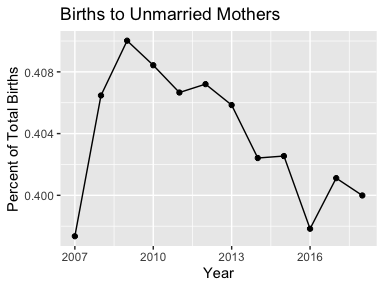
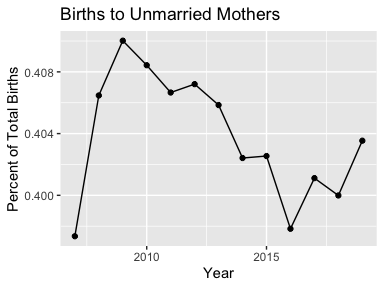
update readme

diff --git a/README.md b/README.md
@@ -1,106 +1,58 @@
 wonderapi
 ================
 Joyce Robbins
-October 3, 2019
-
-**Please note that the CDC [does not allow access to subnational data categories through the API](https://wonder.cdc.gov/wonder/help/WONDER-API.html#More). That means grouping by location variables such as Region, Division, State, County, and Urbanization will not work.**
+June 21, 2021
 
 <div id="TOC">
 
 <ul>
-
 <li>
-
 <a href="#overview">Overview</a>
-
 <ul>
-
 <li>
-
 <a href="#example">Example</a>
-
 </li>
-
 </ul>
-
 </li>
-
 <li>
-
 <a href="#installation">Installation</a>
-
 </li>
-
 <li>
-
 <a href="#getting-started">Getting started</a>
-
 <ul>
-
 <li>
-
 <a href="#codebooks">Codebooks</a>
-
 </li>
-
 <li>
-
 <a href="#default-query-lists-and-requests">Default query lists and
 requests</a>
-
 </li>
-
 </ul>
-
 </li>
-
 <li>
-
 <a href="#creating-customized-queries">Creating customized queries</a>
-
 <ul>
-
 <li>
-
 <a href="#group-by-variables">Group By variables</a>
-
 </li>
-
 <li>
-
 <a href="#measures">Measures</a>
-
 </li>
-
 <li>
-
 <a href="#limiting-variables">Limiting variables</a>
-
 </li>
-
 <li>
-
 <a href="#plotting-query-results">Plotting query results</a>
-
 </li>
-
 <li>
-
 <a href="#combining-results-from-multiple-datasets">Combining results
 from multiple datasets</a>
-
 </li>
-
 <li>
-
 <a href="#errors">Errors</a>
-
 </li>
-
 </ul>
-
 </li>
-
 </ul>
 
 </div>
@@ -119,11 +71,11 @@ write queries using human readable names rather than numeric codes.
 
 `getData()`
 
-  - converts the user’s parameter requests to codes  
-  - adds these codes to the default query list  
-  - calls `wondr::make_query` to obtain query results
-  - processes the results  
-  - returns a tidy data frame
+-   converts the user’s parameter requests to codes  
+-   adds these codes to the default query list  
+-   calls `wondr::make_query` to obtain query results
+-   processes the results  
+-   returns a tidy data frame
 
 ### Example
 
@@ -186,14 +138,15 @@ codebooks are stored as vignettes, so be sure to include
 Queries are composed of parameter name-value pairs. Setting up a query
 without assistance is complex because the query must be submitted as an
 .xml file with a long list of required parameters, such as [here
-(Example 1)](https://wonder.cdc.gov/wonder/help/API-Examples/D76_Example1-req.xml)
-and [here
-(Example 2)](https://wonder.cdc.gov/wonder/help/API-Examples/D76_Example2-req.xml).
+(Example
+1)](https://wonder.cdc.gov/wonder/help/API-Examples/D76_Example1-req.xml)
+and [here (Example
+2)](https://wonder.cdc.gov/wonder/help/API-Examples/D76_Example2-req.xml).
 The point of the package is to prevent your having to create requests in
 this form. It relies on the `wondr` package which creates converts R
 lists to xml and makes the query. The value of this package is in the
-“pre” and “post” stages of the query, that is, the processes of
-setting up the query and tidying the results.
+“pre” and “post” stages of the query, that is, the processes of setting
+up the query and tidying the results.
 
 ### Codebooks
 
@@ -232,7 +185,7 @@ To facilitate the process of designing a query list, this package relies
 on default query lists. Each default query is set to request a single
 Group By Results parameter, generally set to `"Year"`. It is set to
 request the Measures that are listed as default Measures on the web
-interface (i.e. `Births` for [the Births
+interface (i.e. `Births` for [the Births
 dataset](https://wonder.cdc.gov/controller/datarequest/D76); `Deaths`,
 `Population` and `Crude Rate` for the [Detailed Mortality
 dataset](https://wonder.cdc.gov/controller/datarequest/D76).) To see the
@@ -301,12 +254,12 @@ mydata %>% head()
     ## # A tibble: 6 x 4
     ##   Weekday    Deaths Population     `Crude Rate`  
     ##   <chr>       <dbl> <chr>          <chr>         
-    ## 1 Sunday    6771754 Not Applicable Not Applicable
-    ## 2 Monday    6818805 Not Applicable Not Applicable
-    ## 3 Tuesday   6771904 Not Applicable Not Applicable
-    ## 4 Wednesday 6776899 Not Applicable Not Applicable
-    ## 5 Thursday  6786793 Not Applicable Not Applicable
-    ## 6 Friday    6891067 Not Applicable Not Applicable
+    ## 1 Sunday    7575854 Not Applicable Not Applicable
+    ## 2 Monday    7638335 Not Applicable Not Applicable
+    ## 3 Tuesday   7586763 Not Applicable Not Applicable
+    ## 4 Wednesday 7585543 Not Applicable Not Applicable
+    ## 5 Thursday  7596742 Not Applicable Not Applicable
+    ## 6 Friday    7711294 Not Applicable Not Applicable
 
 As the set up is slightly different depending on the parameter type,
 more details on setting up the name-value pairs by parameter types are
@@ -369,7 +322,7 @@ mylist <- list(list("Month", "2"))
 getData(TRUE, "D66", mylist)
 ```
 
-    ## # A tibble: 12 x 2
+    ## # A tibble: 13 x 2
     ##     Year Births
     ##    <dbl>  <dbl>
     ##  1  2007 326891
@@ -384,6 +337,7 @@ getData(TRUE, "D66", mylist)
     ## 10  2016 306015
     ## 11  2017 289054
     ## 12  2018 284250
+    ## 13  2019 279963
 
 **Note that values for Limiting Variables must be entered as codes; in
 this case “2” rather than “February.” We hope to add capability for
@@ -437,10 +391,10 @@ births <- rbind(getData(TRUE, "Natality for 1995 - 2002"),
                 getData(TRUE, "Natality for 2003 - 2006"),
                 getData(TRUE, "Natality for 2007 - 2019"))
 ggplot(births, aes(Year, Births)) + geom_line() + 
-    ggtitle("U.S. Births by Year, 1995 - 2018")
+    ggtitle("U.S. Births by Year, 1995 - 2019")
 ```
 
-<img src="readme_files/figure-gfm/BirthsbyYear1995to2018-1.png" style="display: block; margin: auto;" />
+<img src="readme_files/figure-gfm/BirthsbyYear1995to2019-1.png" style="display: block; margin: auto;" />
 
 ### Errors
 
@@ -483,16 +437,14 @@ mylist <- list(list("And By", "Education"),
 mydata4 <- getData(TRUE, "Natality for 2007 - 2019", mylist)
 ```
 
-    ## Error in wondr::make_query(querylist, dbcode): Bad Request (HTTP 400).
+    ## Error in wondr::make_query(querylist, dbcode): Internal Server Error (HTTP 500).
 
 In this case, the best approach is to visit the [CDC Wonder API web
 interface](https://wonder.cdc.gov) and try the same query. If all goes
 well, you will receive more detailed information on what went wrong:
 
 <center>
-
 <img src="NatalityError.png" width="432px"/>
-
 </center>
 
 We learn that we can’t include “Education” if we request the “Birth
@@ -510,11 +462,11 @@ mydata5 %>% head()
 ```
 
     ## # A tibble: 6 x 5
-    ##    Year `Mother's Bridged Race`       Births `Total Populatio… `Birth Rate`
-    ##   <dbl> <chr>                          <dbl>             <dbl>        <dbl>
-    ## 1  2007 American Indian or Alaska N…   49443           3829898         12.9
-    ## 2  2007 Asian or Pacific Islander     254488          15559373         16.4
-    ## 3  2007 Black or African American     675676          40451108         16.7
-    ## 4  2007 White                        3336626         241390828         13.8
-    ## 5  2008 American Indian or Alaska N…   49537           3983929         12.4
-    ## 6  2008 Asian or Pacific Islander     253185          16094699         15.7
+    ##    Year `Mother's Bridged Race`           Births `Total Population` `Birth Rate`
+    ##   <dbl> <chr>                              <dbl>              <dbl>        <dbl>
+    ## 1  2007 American Indian or Alaska Native   49443            3829898         12.9
+    ## 2  2007 Asian or Pacific Islander         254488           15559373         16.4
+    ## 3  2007 Black or African American         675676           40451108         16.7
+    ## 4  2007 White                            3336626          241390828         13.8
+    ## 5  2008 American Indian or Alaska Native   49537            3983929         12.4
+    ## 6  2008 Asian or Pacific Islander         253185           16094699         15.7
